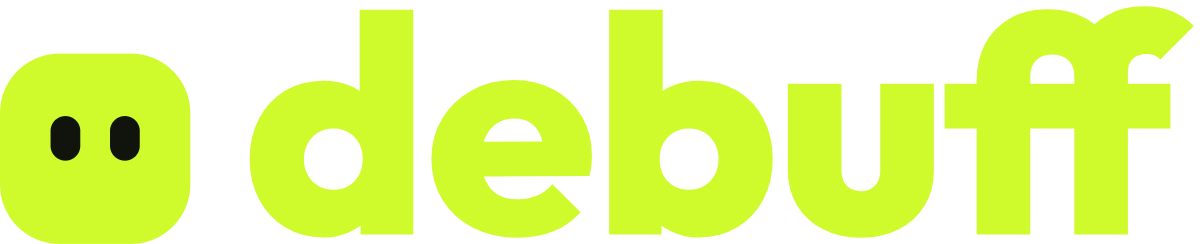
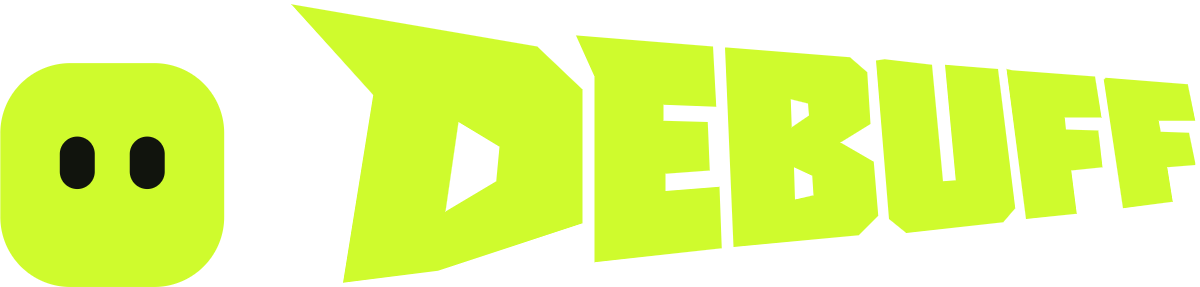
Retire the Outfit wordmark: wordmark, lockups and social card use the DEBUFF letters

diff --git a/README.md b/README.md
@@ -10,7 +10,7 @@ Official assets for **debuff**, the 2D web game toolkit, and its mascot **buff**
 
 | File | Use |
 | --- | --- |
-| `assets/wordmark-lime.svg` | Default wordmark, on dark backgrounds |
+| `assets/wordmark-lime.svg` | Default DEBUFF wordmark, on dark backgrounds |
 | `assets/wordmark-ink.svg` | Wordmark on light backgrounds, and on lime |
 | `assets/wordmark-white.svg` | Wordmark on photos and dark colours (never on lime: white on lime is hard to read) |
 | `assets/lockup-lime.svg` / `.png`, `assets/lockup-ink.svg` | buff + wordmark |
@@ -23,7 +23,7 @@ Official assets for **debuff**, the 2D web game toolkit, and its mascot **buff**
 
 - The name is always lowercase: **debuff**, and the mascot is **buff**.
 - Colours: lime `#cffb2d`, limeSoft `#e7fd96`, ink `#11140d`. Anything filled with lime takes ink text, never white. Accents are sky `#38bdf8`, pink `#f472b6`, amber `#fbbf24` and violet `#a78bfa`.
-- Fonts (all OFL): Outfit (display and wordmark), Geist (body), Geist Mono (code), Pixelify Sans (pixel accents).
+- Fonts (all OFL): Outfit (display headings), Geist (body), Geist Mono (code), Pixelify Sans (pixel accents).
 - Please don't recolour, stretch or redraw the wordmark or buff, or use them to suggest an official endorsement.
 
 ## Regenerate
